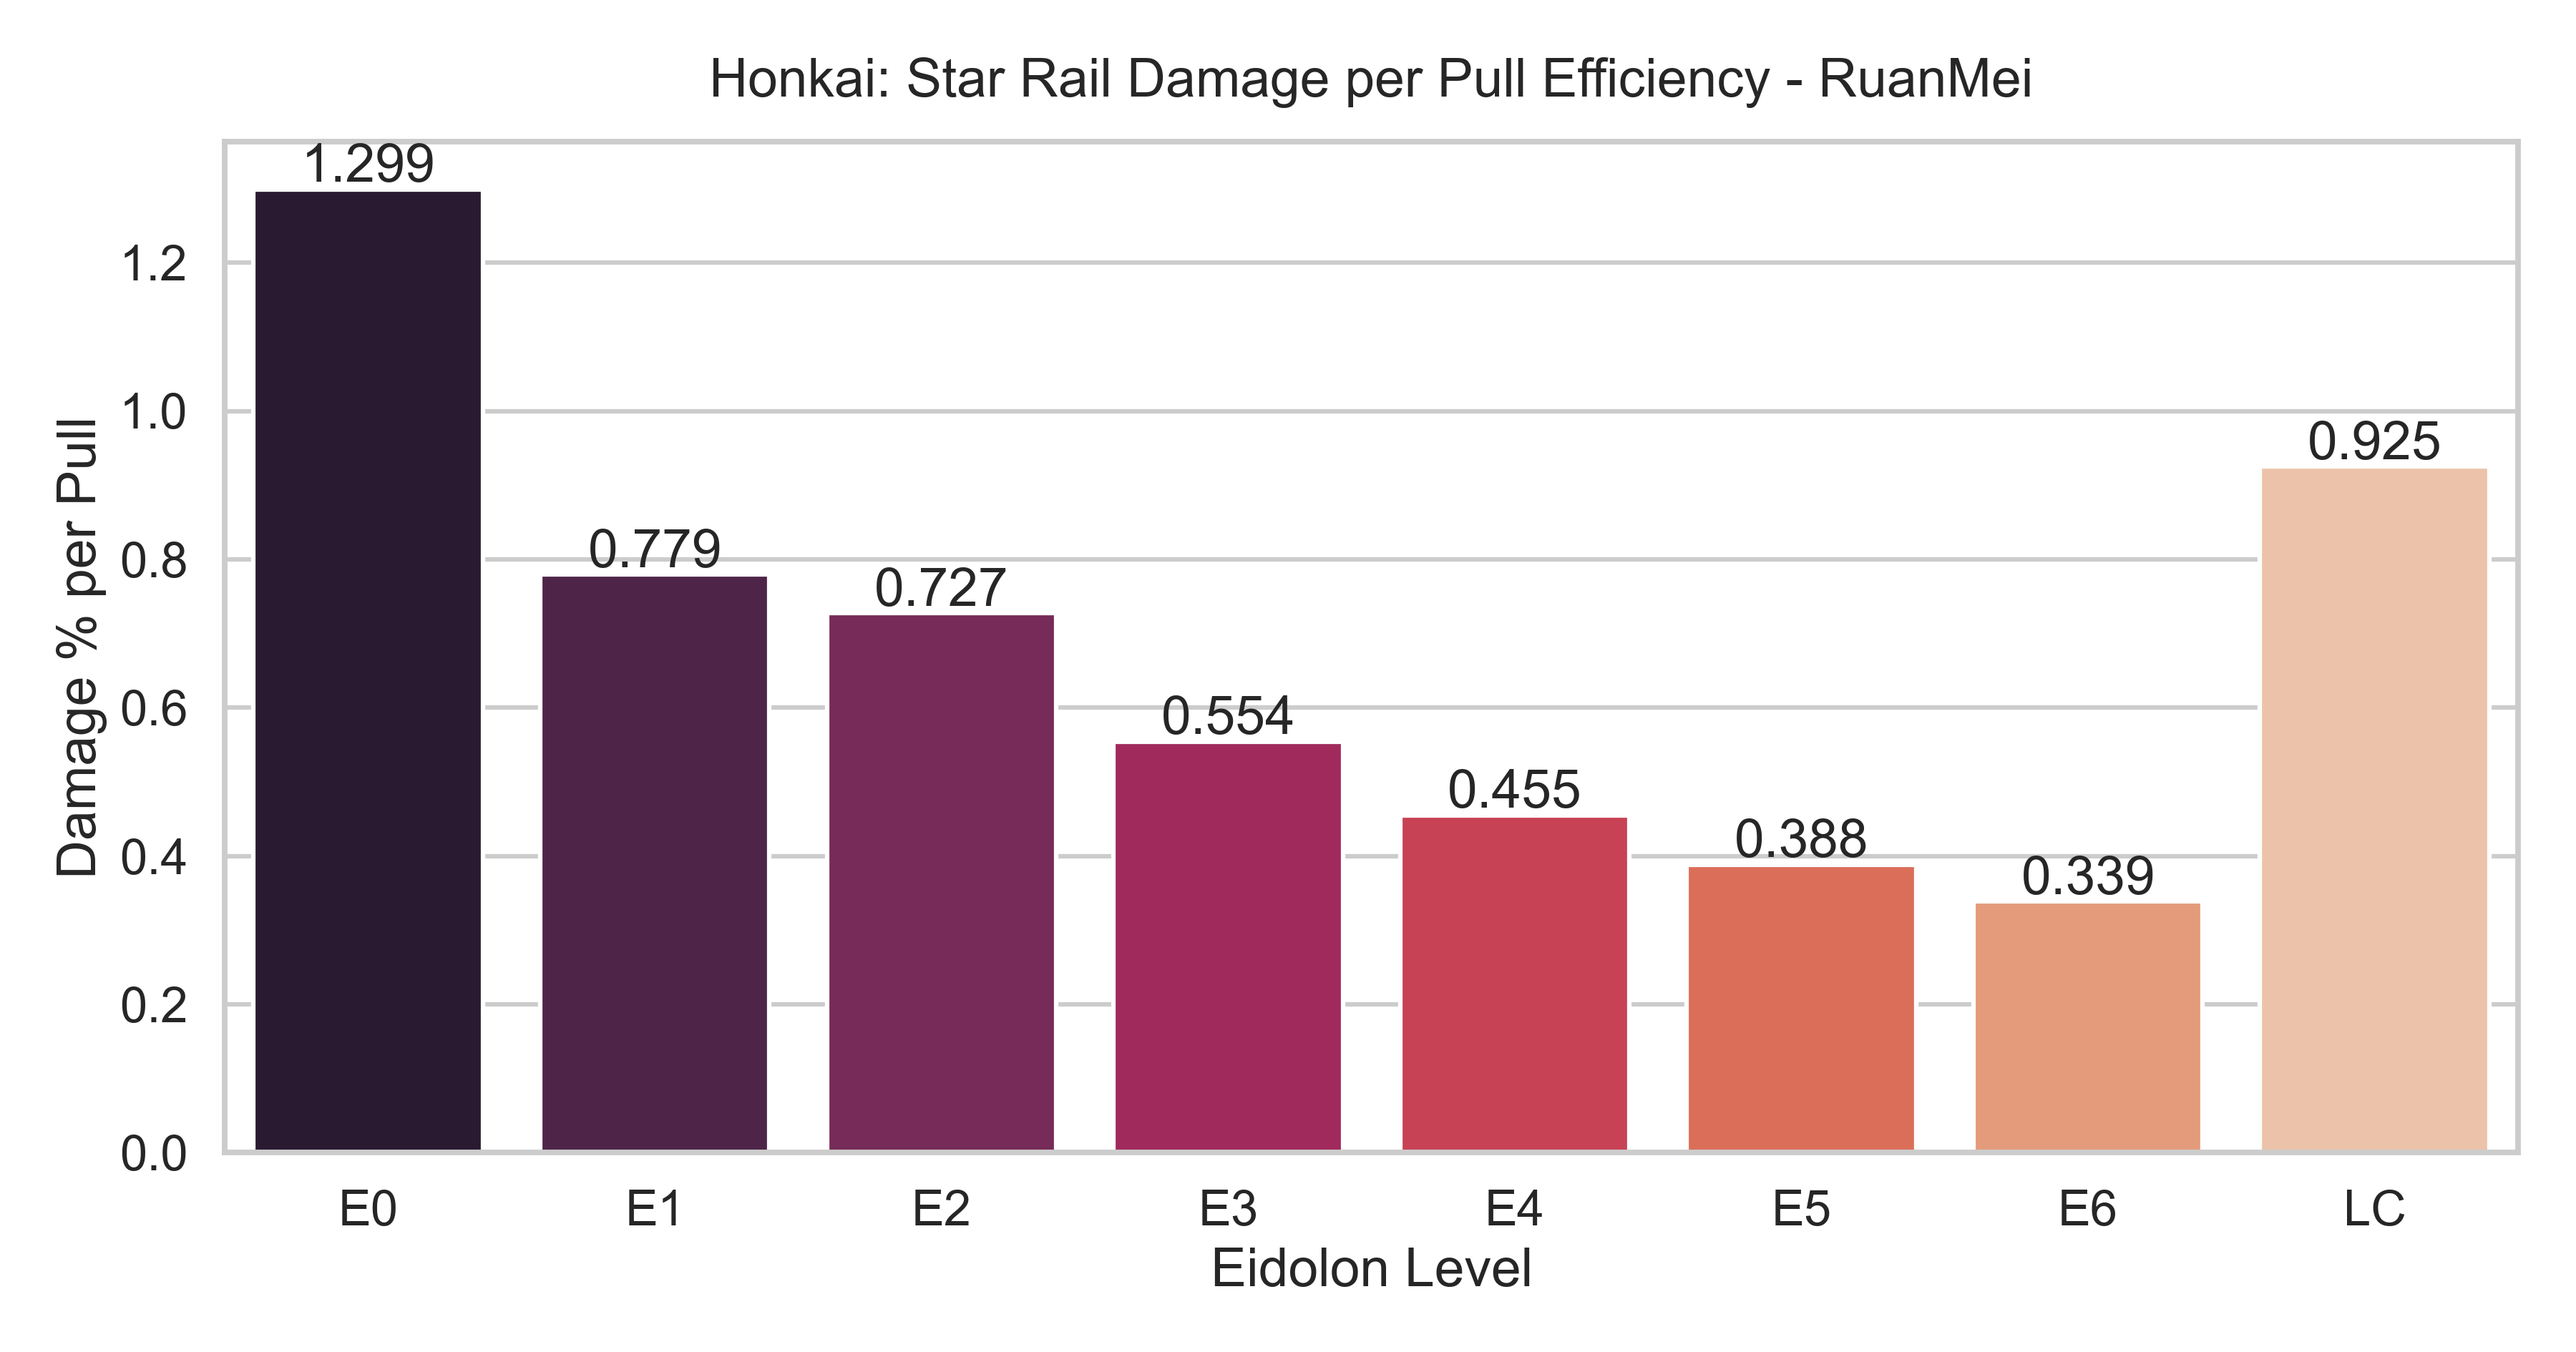
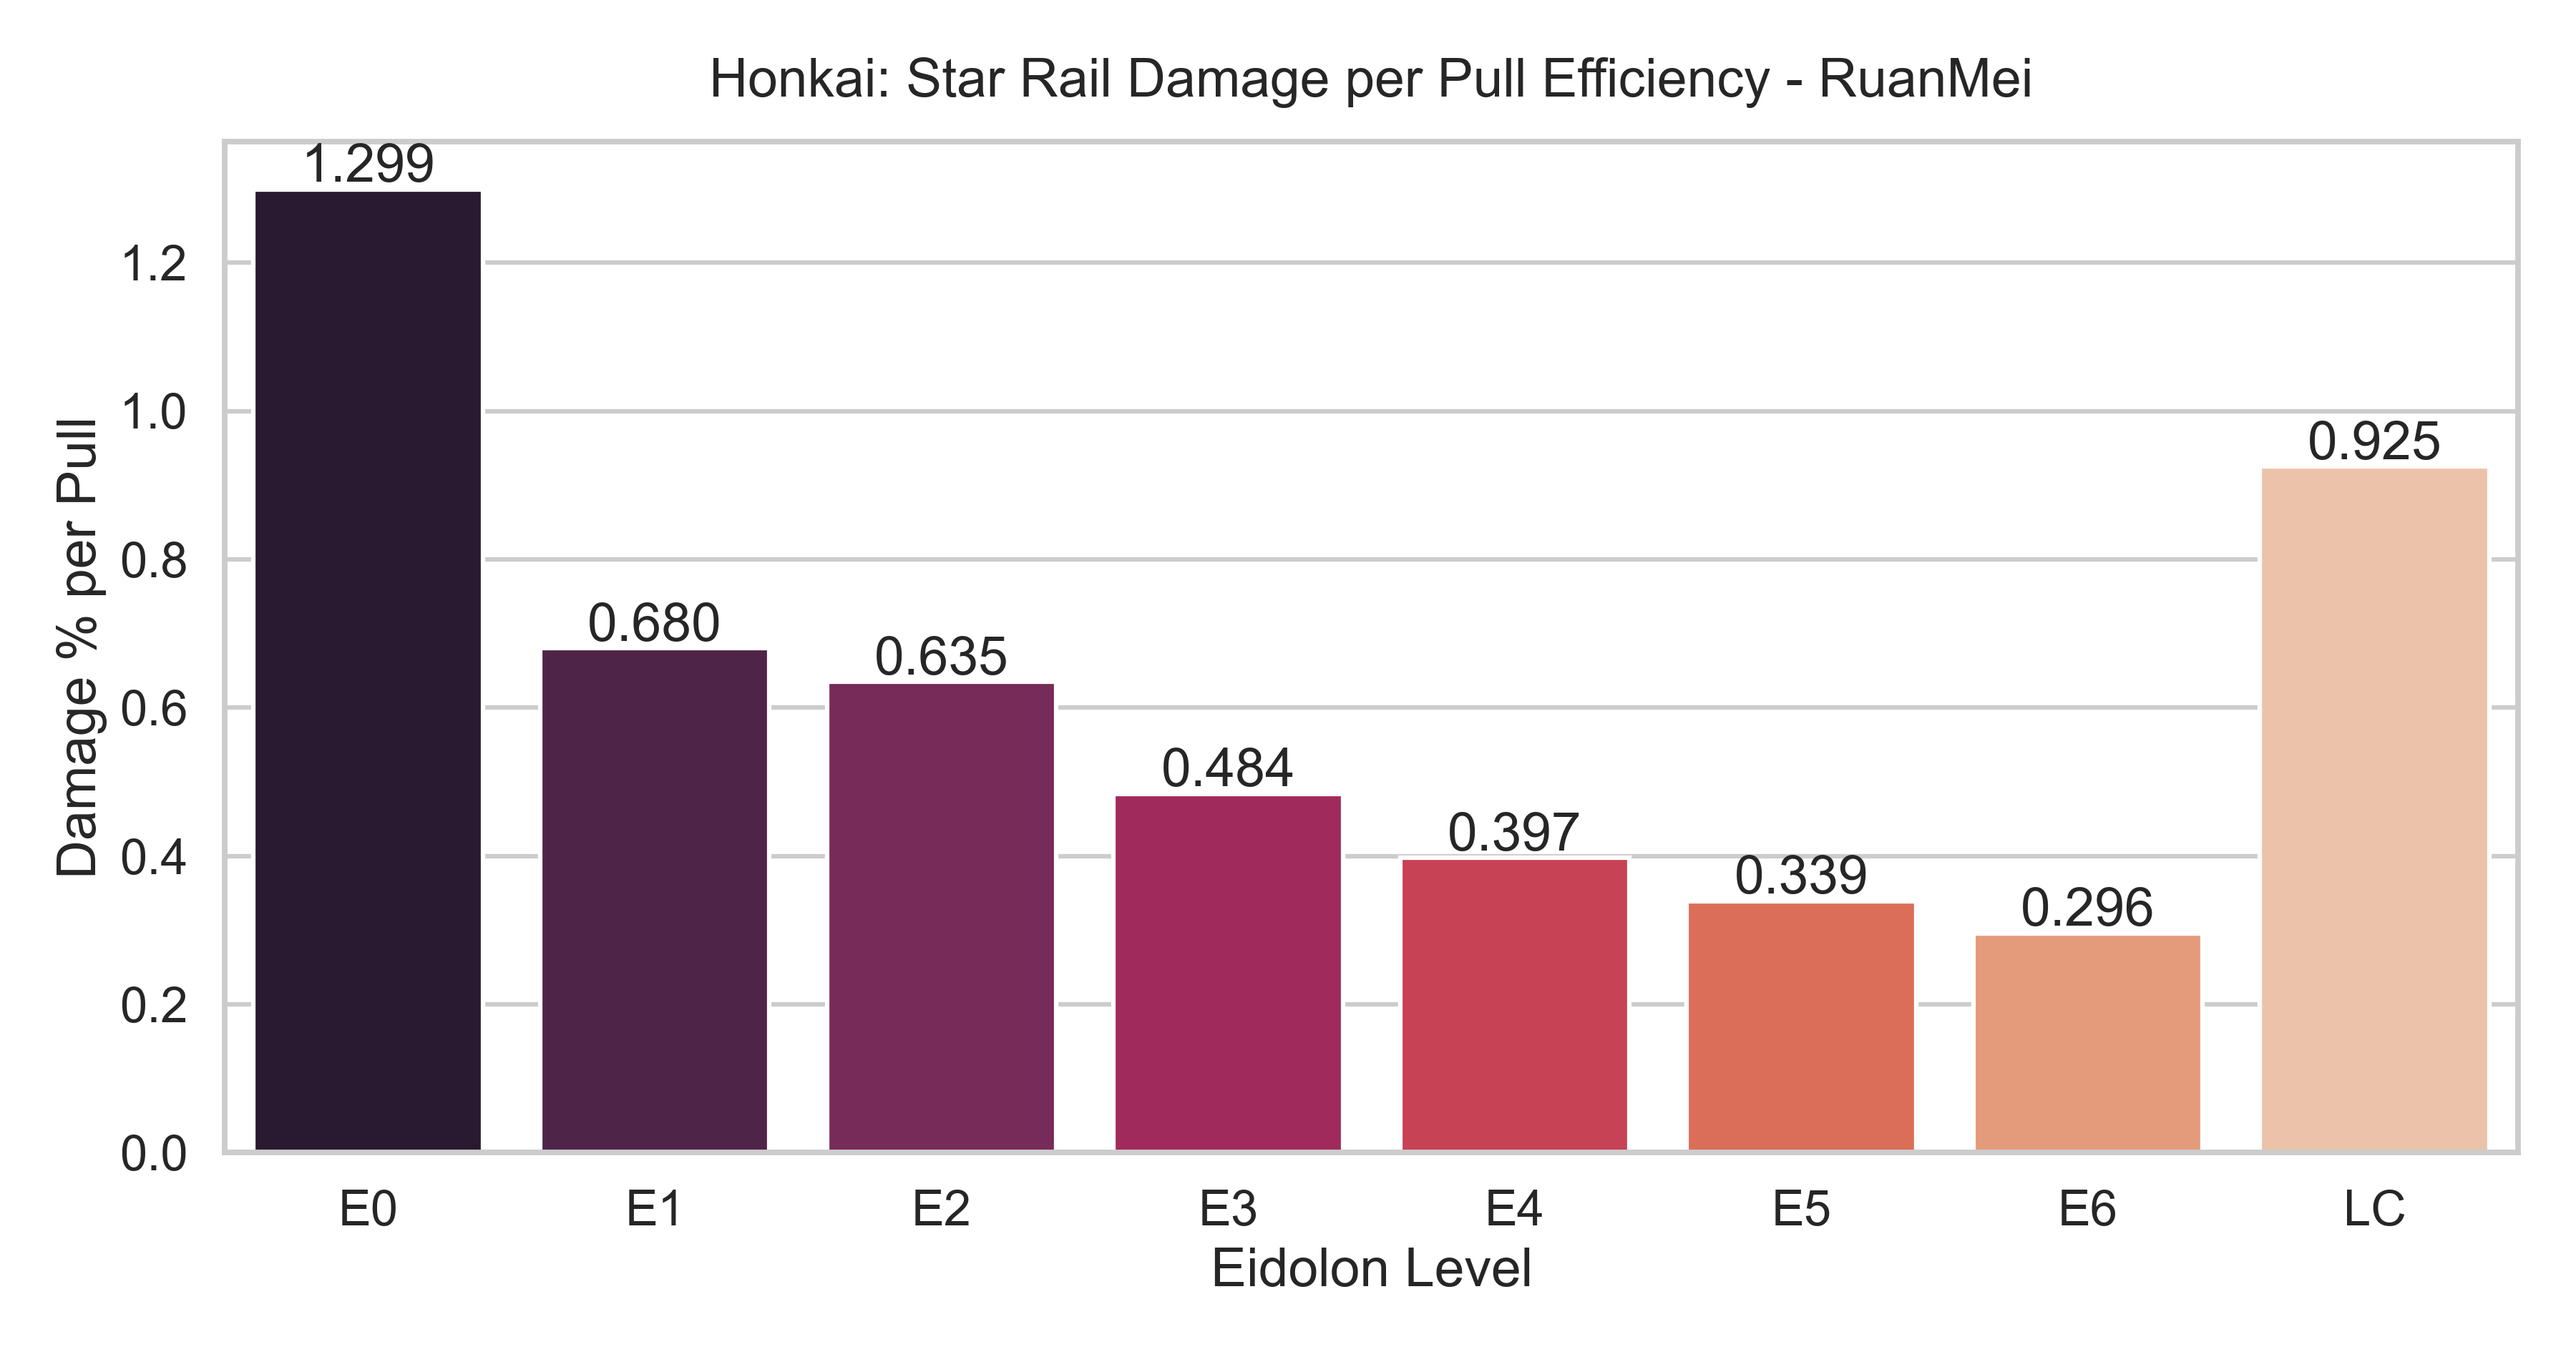
Implement damage increase calculations for RuanMei class: add methods to calculate damage increases from E1 and E2 abilities, including detailed simulation logic for enhanced damage scenarios.

Changed region(s): [[0.5289, 0.5619, 0.8711, 0.718], [0.1867, 0.3746, 0.4356, 0.5307], [0.4356, 0.4995, 0.5289, 0.5931]]

diff --git a/simulations/characters/ruan_mei.py b/simulations/characters/ruan_mei.py
@@ -1,3 +1,5 @@
+from calendar import c
+from email.mime import base
 from typing import Optional
 
 from simulations.characters.base_character import Character
@@ -13,6 +15,7 @@ class RuanMei(Character):
 
     def __init__(self):
         super().__init__()
+        self.ruan_mei_ult_energy: int = 130
 
     def calculate_final_dmg(
         self,
@@ -25,7 +28,7 @@ class RuanMei(Character):
         has_lc: Optional[bool] = None,
     ) -> float:
         if has_e1:
-            def_ignore = 0.2
+            def_ignore = self.calculate_dmg_increased_from_e1()
         else:
             def_ignore = 0.0
         if has_e2:
@@ -265,4 +268,45 @@ class RuanMei(Character):
         base_dmg = simulate_dmg(base_duration)
         enhanced_dmg = simulate_dmg(enhanced_duration)
 
+        return self.calculate_percent_change(base_dmg, enhanced_dmg)
+    
+    def calculate_dmg_increased_from_e1(self) -> float:
+        ult_duration = 3
+        energy_gain = 30
+        
+        def simulate_dmg(has_e1: bool = False) -> float:
+            ult_energy = self.ruan_mei_ult_energy
+            current_ult_energy = 0
+            total_damage = 0
+            current_ult_duration = 0
+            total_turns = 1000
+            
+            if has_e1:
+                def_ignore = 0.2
+            else:
+                def_ignore = 0.0
+                        
+            for _ in range(total_turns):
+                if current_ult_energy >= ult_energy:
+                    is_ult_active = True
+                    current_ult_energy = 0
+                    current_ult_duration = ult_duration
+                else:
+                    is_ult_active = False
+                    current_ult_duration = 0
+                
+                if is_ult_active:
+                    skil_dmg = self.calculate_dmg(self.atk, self.skill_multiplier) * (1 + self.RES_PEN_FROM_ULT) * (1 + def_ignore)
+                    current_ult_duration -= 1
+                else:
+                    skil_dmg = self.calculate_dmg(self.atk, self.skill_multiplier)
+
+                total_damage += skil_dmg
+                current_ult_energy += energy_gain
+                    
+            return total_damage
+
+        base_dmg = simulate_dmg()
+        enhanced_dmg = simulate_dmg(True)
+        
         return self.calculate_percent_change(base_dmg, enhanced_dmg)

diff --git a/simulations/characters/base_character.py b/simulations/characters/base_character.py
@@ -171,3 +171,29 @@ class Character:
             Damage increase percentage
         """
         raise NotImplementedError("Subclasses should implement this method.")
+    
+    def calculate_dmg_increased_from_e1(self) -> float:
+        """
+        Calculate the damage increase from E1 ability.
+        
+        Compares two scenarios:
+        1. Base scenario: No E1 ability
+        2. Enhanced scenario: E1 ability active
+        
+        Returns:
+            float: Percentage increase in damage from E1 ability
+        """
+        raise NotImplementedError("Subclasses should implement this method.")
+    
+    def calculate_dmg_increased_from_e2(self) -> float:
+        """
+        Calculate the damage increase from E2 ability.
+        
+        Compares two scenarios:
+        1. Base scenario: No E2 ability
+        2. Enhanced scenario: E2 ability active
+        
+        Returns:
+            float: Percentage increase in damage from E2 ability
+        """
+        raise NotImplementedError("Subclasses should implement this method.")
